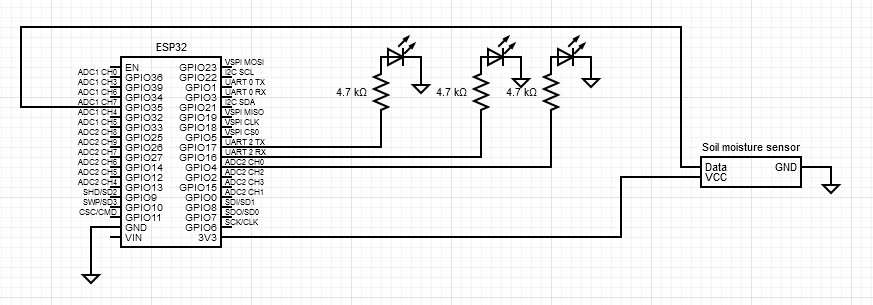
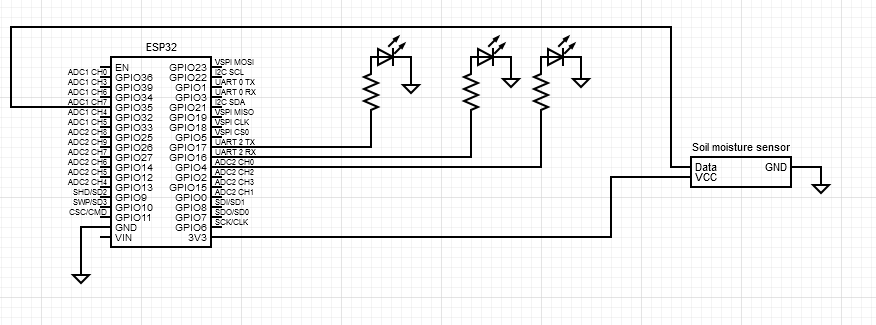
diagram revised

diff --git a/Documentation/Photos/list_of_photos.md b/Documentation/Photos/list_of_photos.md
@@ -1,5 +1,5 @@
 # List of Documentation Photos
 
-1. [Photo 1] - Description for Photo 1
+1. [Circuit diagram.png] - Diagram of the electrical circuit. values not added.
 2. [Photo 2] - Description for Photo 2
 3. [Photo 3] - Description for Photo 3
